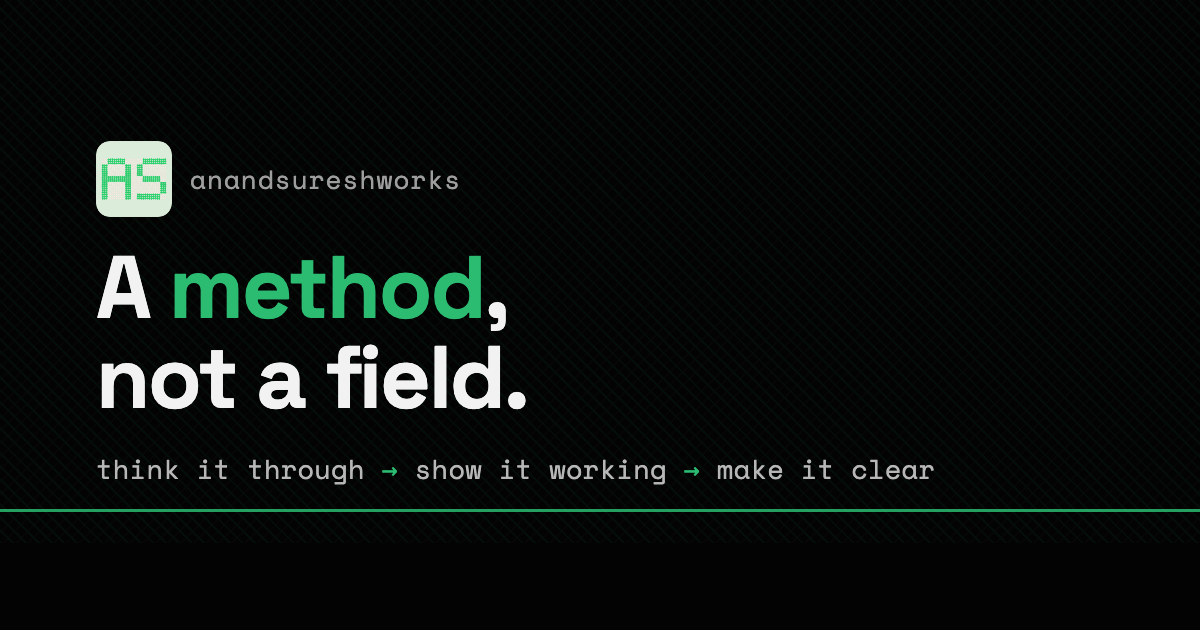
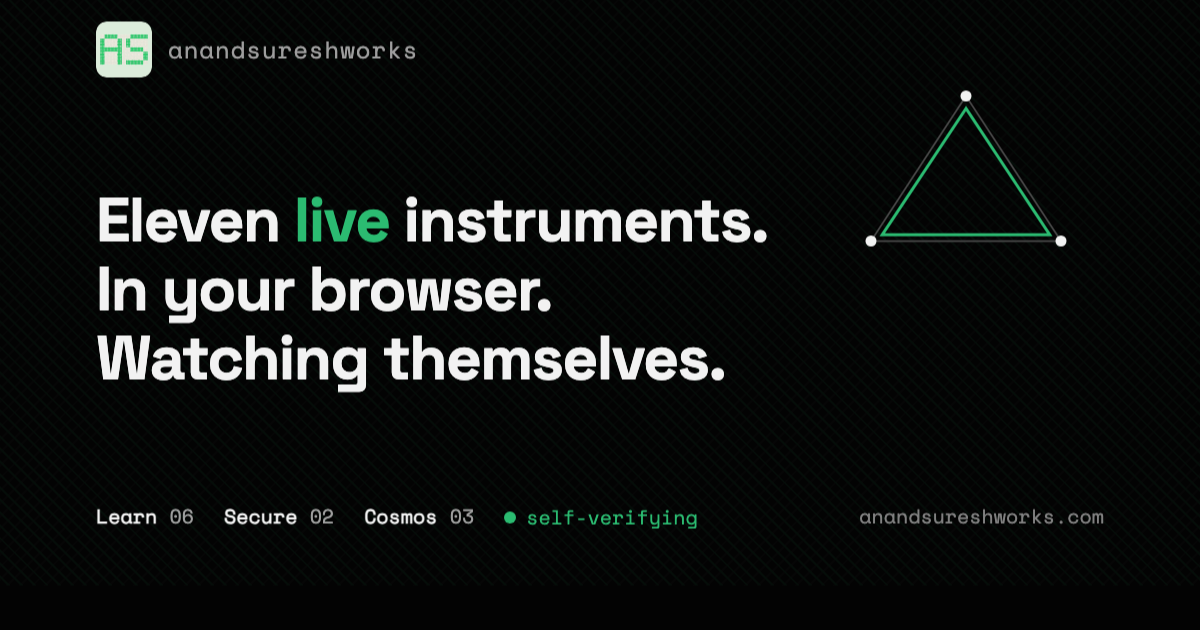
feat(home): rev 4 — wings as chapters + claim-first og card
Why: the three wings were filed, not displayed — tabs hid two of three behind
a click, no wing existed above the fold, and eleven equal cards gave no wing a
signature moment. On LinkedIn the feed card does the selling before the click,
and ours led with the wordmark instead of the claim.

- tabs -> full-width chapters, deep-linkable (#learn/#secure/#cosmos); tab
  select/keyboard JS retired — no hidden content, no state
- each chapter led by its signature instrument at double width: Ebbinghaus,
  Redactor, Your Sky (Cosmos reordered — sky leads, Einstein second)
- wings doors strip in the fold: all three rooms visible before the scroll,
  live micro-signals per wing
- og-card: claim-first ('Eleven live instruments. In your browser. Watching
  themselves.') + wing counts; og/meta descriptions rewritten to match
- gen_og_card.sh: Chrome headless=new reserves ~85px of canvas below the
  viewport; render 715 + top-crop 630 (sips --cropOffset must FOLLOW -c or it
  silently center-crops). Caught by eyeballing the PNG — geometry never errors.

Count contract: 'eleven' appears in og-card + og:description + meta description;
update all three when wings grow (noted at SHELVES).

diff --git a/index.html b/index.html
@@ -4,10 +4,10 @@
 <meta charset="utf-8" />
 <meta name="viewport" content="width=device-width, initial-scale=1" />
 <title>Anand Suresh — a method, not a field</title>
-<meta name="description" content="A method, not a field — first-principles rigor, demonstrated in the open, demystified for any reader. Live, in-browser instruments across AI, security, learning, and the cosmos. By Anand Suresh." />
+<meta name="description" content="A method, not a field — eleven live instruments across AI, security, learning, and the cosmos, running in your browser and verifying their own freshness. By Anand Suresh." />
 <meta name="robots" content="index, follow" />
 <meta property="og:title" content="Anand Suresh — a method, not a field" />
-<meta property="og:description" content="Think it through. Show it working. Make it clear. Live, in-browser instruments across AI, security, learning, and the cosmos." />
+<meta property="og:description" content="Eleven live instruments across AI, security, learning & the cosmos — running in your browser, verifying their own freshness. Nothing installed, nothing sent anywhere." />
 <meta property="og:image" content="https://www.anandsureshworks.com/og-card.png" />
 <meta property="og:type" content="website" />
 <meta property="og:url" content="https://www.anandsureshworks.com/" />
@@ -20,13 +20,36 @@
   h1{font-size:1.5rem;font-weight:600;margin:.4rem 0 .3rem;letter-spacing:-.01em}
   .sub{color:var(--t2);font-size:.9rem;margin:0 0 2.2rem}
   section{margin-bottom:2.6rem}
-  .tabs{display:flex;gap:1.4rem;border-bottom:1px solid var(--bd-sub);margin:0 0 1.6rem}
-  .tabs button{background:none;border:none;border-bottom:2px solid transparent;color:var(--t3);font-family:var(--sans);font-size:.95rem;font-weight:600;padding:.45rem 0 .6rem;margin-bottom:-1px;cursor:pointer;display:flex;align-items:center;gap:.4rem}
-  .tabs button[aria-selected=true]{color:var(--t1);border-bottom-color:var(--accent)}
-  .tabs button:hover{color:var(--t2)}
-  .tabs .tcount{font-family:var(--mono);font-size:.66rem;color:var(--t3);font-weight:400}
-  .panel-head{display:flex;align-items:baseline;gap:.75rem;margin-bottom:1.1rem}
-  .panel-head .thesis{font-size:.84rem;color:var(--t2)}
+  /* rev 4 — wings as chapters, not tabs: every wing visible, each led by its signature instrument.
+     The doors strip puts all three wings in the fold; chapters are deep-linkable (#learn/#secure/#cosmos). */
+  .wings{display:grid;grid-template-columns:repeat(3,1fr);gap:1rem;margin:2.4rem 0 0}
+  @media(max-width:760px){.wings{grid-template-columns:1fr}}
+  .wing{display:flex;flex-direction:column;gap:.45rem;padding:1rem 1.1rem 1.05rem;background:var(--s1);border:1px solid var(--bd-sub);border-radius:11px;text-decoration:none;transition:border-color .15s ease,transform .15s ease}
+  .wing:hover{border-color:var(--accent);transform:translateY(-2px)}
+  .wing:focus-visible{outline:2px solid var(--accent);outline-offset:2px}
+  .wing .eyeb{font-family:var(--mono);font-size:.58rem;letter-spacing:.1em;text-transform:uppercase;color:var(--t3)}
+  .wing h3{font-size:1.33rem;font-weight:600;margin:0;letter-spacing:-.012em;color:var(--t1)}
+  .wing .wth{font-size:.78rem;color:var(--t2);min-height:2.3em}
+  .wing .micro{height:44px;display:flex;align-items:center;overflow:hidden}
+  .wing .wct{display:flex;justify-content:space-between;align-items:baseline;font-family:var(--mono);font-size:.66rem;color:var(--t3)}
+  .wing .wct .go{color:var(--accent);font-weight:700}
+  .microchips{display:flex;gap:5px;flex-wrap:wrap}
+  .microchips span{font-family:var(--mono);font-size:.56rem;color:var(--d2);border:1px solid color-mix(in oklch,var(--d2) 42%,transparent);border-radius:3px;padding:1px 5px}
+  .mstk{position:relative;width:100%;height:44px;border-radius:6px;overflow:hidden;background:radial-gradient(circle at 50% -60%, color-mix(in oklch,var(--d5) 20%,transparent), transparent 75%)}
+  .mstk i{position:absolute;width:1.5px;height:8px;border-radius:1px;background:linear-gradient(to bottom,transparent,var(--d5));animation:mfall 2.4s linear infinite;opacity:0}
+  @keyframes mfall{0%{transform:translateY(-10px);opacity:0}8%{opacity:1}88%{opacity:.5}100%{transform:translateY(52px);opacity:0}}
+  @media (prefers-reduced-motion:reduce){.mstk i{animation:none;opacity:.35;transform:translateY(14px)}}
+  .chapter{margin-top:3rem;scroll-margin-top:1rem}
+  .chhead{display:flex;align-items:baseline;gap:1rem;flex-wrap:wrap;border-bottom:1px solid var(--bd-sub);padding-bottom:.6rem;margin-bottom:1.2rem}
+  .chhead .eyeb{font-family:var(--mono);font-size:.6rem;letter-spacing:.1em;text-transform:uppercase;color:var(--t3)}
+  .chhead h2{font-size:1.78rem;font-weight:600;margin:0;letter-spacing:-.018em;line-height:1.05}
+  .chhead .thesis{font-size:.84rem;color:var(--t2)}
+  .chhead .count{margin-left:auto;font-family:var(--mono);font-size:.66rem;color:var(--t3)}
+  main .cards{grid-template-columns:repeat(auto-fill,minmax(18.5rem,1fr))} /* 3-up on desktop so a lead can span 2 (page-local; brand.css default untouched) */
+  .card.lead{grid-column:span 2}
+  @media(max-width:760px){.card.lead{grid-column:span 1}}
+  .lead .q{font-size:1.33rem}
+  .lead .c-signal{height:200px}
 
   /* deep-decay */
   .ring-col{display:flex;flex-direction:column;align-items:center;gap:4px;flex:none}
@@ -294,8 +317,8 @@
     <a class="cta2" href="/notes/feed.xml">rss &#8599;</a>
   </div>
 
-  <nav class="tabs" id="tabs" role="tablist" aria-label="categories"></nav>
-  <div id="panels"></div>
+  <div class="wings" id="wings" aria-label="the three wings"></div>
+  <div id="chapters"></div>
 
   <div class="prodrow">
     <span class="pname">agentliveness</span><span class="lic">MIT</span>
@@ -330,8 +353,8 @@
   const dcol=v=> v>=.8?"var(--d5)": v>=.6?"var(--d4)": v>=.4?"var(--d3)": v>=.2?"var(--d2)":"var(--d1)";
   const RAMPKEY=`<div class="ramp-key" aria-label="data scale from fresh to decayed"><span>fresh</span><i style="background:var(--d5)"></i><i style="background:var(--d4)"></i><i style="background:var(--d3)"></i><i style="background:var(--d2)"></i><i style="background:var(--d1)"></i><span>decayed</span></div>`;
 
-  function card({eyebrow,q,concept,statN,statLbl,date,signal,sigAria,foot}){
-    return `<article class="card">
+  function card({eyebrow,q,concept,statN,statLbl,date,signal,sigAria,foot,lead}){
+    return `<article class="card${lead?" lead":""}">
       <div class="c-head"><div class="eyebrow">${eyebrow}</div><p class="q">${q}</p><p class="concept">${concept}</p></div>
       <div class="c-signal" role="img" aria-label="${sigAria}" style="position:relative">${signal}</div>
       <div class="c-stat"><span class="n">${statN}</span><span class="lbl">${statLbl}</span><span class="date">${date}</span></div>
@@ -340,16 +363,19 @@
   }
   const SHELVES=[];
   function shelf(id,o){ SHELVES.push({id,...o}); }
-  function renderTabs(){
-    const tabs=document.getElementById("tabs"), panels=document.getElementById("panels");
-    tabs.innerHTML=SHELVES.map((s,i)=>`<button role="tab" id="tab-${s.id}" data-tab="${s.id}" aria-controls="panel-${s.id}" aria-selected="${i===0}" tabindex="${i===0?0:-1}">${s.title}<span class="tcount">${(s.cards.match(/<article/g)||[]).length}</span></button>`).join("");
-    panels.innerHTML=SHELVES.map((s,i)=>`<section class="tpanel" id="panel-${s.id}" role="tabpanel" aria-labelledby="tab-${s.id}"${i?" hidden":""}><div class="panel-head"><span class="thesis">${s.thesis}</span>${s.key?RAMPKEY:""}</div><div class="cards">${s.cards}</div></section>`).join("");
-    tabs.addEventListener("click",e=>{const b=e.target.closest("button[role=tab]");if(b)select(b.dataset.tab);});
-    tabs.addEventListener("keydown",e=>{if(e.key!=="ArrowRight"&&e.key!=="ArrowLeft")return;e.preventDefault();const bs=[...tabs.querySelectorAll("button")],i=bs.findIndex(b=>b.getAttribute("aria-selected")==="true"),n=(i+(e.key==="ArrowRight"?1:bs.length-1))%bs.length;select(bs[n].dataset.tab);bs[n].focus();});
-  }
-  function select(id){
-    document.querySelectorAll("#tabs button").forEach(b=>{const on=b.dataset.tab===id;b.setAttribute("aria-selected",String(on));b.tabIndex=on?0:-1;});
-    document.querySelectorAll(".tpanel").forEach(p=>p.hidden=(p.id!=="panel-"+id));
+  // rev 4: wings render as chapters (all visible, deep-linkable) behind a doors strip in the fold.
+  // NOTE: the og:description + og-card state the total instrument count — update both when adding cards.
+  const WING_MICRO={
+    learn:`<span class="mstk" aria-hidden="true"><i style="left:12%;animation-delay:0s"></i><i style="left:34%;animation-delay:.7s"></i><i style="left:58%;animation-delay:.3s"></i><i style="left:81%;animation-delay:1.2s"></i></span>`,
+    secure:`<span class="microchips" aria-hidden="true"><span>DENY-DEFAULT</span><span>9 PII TYPES</span><span>0 PLAINTEXT</span></span>`,
+    cosmos:`<svg viewBox="0 0 220 44" width="100%" aria-hidden="true"><circle cx="18" cy="24" r="1.4" fill="var(--t1)"/><circle cx="47" cy="12" r="1" fill="var(--t2)"/><circle cx="78" cy="30" r="1.7" fill="var(--t1)"/><circle cx="107" cy="9" r="1" fill="var(--t2)"/><circle cx="132" cy="22" r="1.3" fill="var(--t1)"/><circle cx="164" cy="33" r="1" fill="var(--t2)"/><circle cx="187" cy="14" r="2.1" fill="var(--d5)"/><circle cx="205" cy="27" r="1.2" fill="var(--t1)"/></svg>`};
+  const wingNoun=s=>s.id==="secure"?"tools":"instruments";
+  function renderChapters(){
+    const wings=document.getElementById("wings"), chapters=document.getElementById("chapters");
+    wings.innerHTML=SHELVES.map((s,i)=>{const n=(s.cards.match(/<article/g)||[]).length;
+      return `<a class="wing" href="#${s.id}"><span class="eyeb">wing 0${i+1}</span><h3>${s.title}</h3><span class="wth">${s.thesis}</span><span class="micro">${WING_MICRO[s.id]||""}</span><span class="wct"><span>${n} ${wingNoun(s)} · live</span><span class="go" aria-hidden="true">enter &darr;</span></span></a>`;}).join("");
+    chapters.innerHTML=SHELVES.map((s,i)=>{const n=(s.cards.match(/<article/g)||[]).length;
+      return `<section class="chapter" id="${s.id}" aria-labelledby="ch-${s.id}"><div class="chhead"><span class="eyeb">wing 0${i+1}</span><h2 id="ch-${s.id}">${s.title}</h2><span class="thesis">${s.thesis}</span>${s.key?RAMPKEY:""}<span class="count">${n} ${wingNoun(s)}</span></div><div class="cards">${s.cards}</div></section>`;}).join("");
   }
   const ghUrl=r=>`https://github.com/anandsureshworks/${r}`;
 
@@ -372,7 +398,7 @@
     return `<svg viewBox="0 0 ${W} ${H}" width="100%">${grid}${thr}${curveP}${hint}${dots}${xt}</svg>`;
   }
   function ebCard(){
-    return `<article class="card">
+    return `<article class="card lead">
       <div class="c-head"><div class="eyebrow">Memory · spaced repetition</div>
         <p class="q">What are you about to forget?</p>
         <p class="concept">Add a topic and watch it slide down its forgetting curve. <span class='mono' style='color:var(--t3)'>R = e⁻ᵗ/ˢ</span></p></div>
@@ -449,7 +475,7 @@
   ].join("")});
 
   shelf("secure",{title:"Secure", thesis:"First principles, turned on trust.", key:false, cards:[
-    card({eyebrow:"Security · PII", q:"What's leaking in this prompt?",
+    card({lead:true, eyebrow:"Security · PII", q:"What's leaking in this prompt?",
       concept:"Rules + an in-browser NER model scrub names, secrets & PII before they reach an LLM. Nothing leaves your tab.",
       statN:"9", statLbl:"PII types caught · live", date:"2026-06-23",
       signal:`<div class="chips">${["PERSON","EMAIL","SSN","CARD","API_KEY","IP","JWT","ORG","PHONE"].map(t=>`<span class="chip">${t}</span>`).join("")}</div>`,
@@ -462,22 +488,22 @@
   ].join("")});
 
   shelf("cosmos",{title:"Cosmos", thesis:"First principles, turned on the universe.", key:false, cards:[
+    card({lead:true, eyebrow:"Cosmos · your sky", q:"What's above you right now?",
+      concept:"Your real sky — Sun, Moon phase, the bright stars over your horizon — from where you are, this second.",
+      statN:"live", statLbl:"from your location", date:"",
+      signal:skyGlance, sigAria:"A map of bright stars in the night sky", foot:{note:"interactive",href:"./sky/",text:"open ↗"}}),
     card({eyebrow:"Cosmos · Einstein's gotchas", q:"It sounded absurd. It was measured anyway.",
       concept:"Six predictions ridiculed, then confirmed — a century of experiments built to <b>break</b> relativity has only made it sturdier.",
       statN:"6", statLbl:"predictions · 0 broken", date:"1919 – 2019",
       signal:`<div class="chips">${["MUONS","1971 CLOCKS","1919 ECLIPSE","GPS","LIGO 2015","E=mc²","EHT 2019"].map(t=>`<span class="chip">${t}</span>`).join("")}</div>`,
       sigAria:"Six confirmed predictions of relativity, from the 1919 eclipse to the 2019 black-hole photograph", foot:{note:"interactive",href:"./spacetime/#einstein",text:"open ↗"}}),
-    card({eyebrow:"Cosmos · your sky", q:"What's above you right now?",
-      concept:"Your real sky — Sun, Moon phase, the bright stars over your horizon — from where you are, this second.",
-      statN:"live", statLbl:"from your location", date:"",
-      signal:skyGlance, sigAria:"A map of bright stars in the night sky", foot:{note:"interactive",href:"./sky/",text:"open ↗"}}),
     card({eyebrow:"Cosmos · spacetime", q:"How big is it — really?",
       concept:"Looking out is looking back in time; mass bends spacetime; we are a speck.",
       statN:"4", statLbl:"sketches · a cosmology tutor", date:"",
       signal:stGlance, sigAria:"Concentric ripples in spacetime", foot:{note:"interactive",href:"./spacetime/",text:"open ↗"}}),
   ].join("")});
 
-  renderTabs();
+  renderChapters();
 
   // wire interactive ebbinghaus (the one card that reacts to the visitor)
   (()=>{

diff --git a/scripts/og-card.html b/scripts/og-card.html
@@ -1,6 +1,9 @@
 <!doctype html>
 <!-- og-card source — rendered to /og-card.png (1200x630) via headless Chrome:
-     scripts/gen_og_card.sh . Committed source so the card is reproducible. -->
+     scripts/gen_og_card.sh . Committed source so the card is reproducible.
+     rev 4 (2026-08-06): claim-first — the feed card leads with the proof only this
+     site can offer (live, self-verifying instruments), not the wordmark. The
+     instrument count is stated here AND in og:description — update both when wings grow. -->
 <html lang="en">
 <head>
 <meta charset="utf-8" />
@@ -9,29 +12,36 @@
   @font-face{font-family:'Space Mono';font-weight:400;src:url("../fonts/space-mono-latin-400.woff2") format("woff2")}
   *{margin:0;box-sizing:border-box}
   body{width:1200px;height:630px;background:oklch(10% 0 0);color:oklch(96% 0 0);
-    font-family:'Space Grotesk',sans-serif;display:flex;align-items:center;overflow:hidden;position:relative}
+    font-family:'Space Grotesk',sans-serif;overflow:hidden;position:relative;
+    display:flex;flex-direction:column;justify-content:space-between;padding:64px 96px 56px}
   .weave{position:absolute;inset:0;opacity:.05;
     background:repeating-linear-gradient(45deg,transparent 0 7px,oklch(70% .16 155) 7px 9px),
                repeating-linear-gradient(-45deg,transparent 0 7px,oklch(40% 0 0) 7px 9px)}
-  .thread{position:absolute;left:0;right:0;bottom:118px;height:3px;background:oklch(70% .16 155);opacity:.85}
-  .wrap{position:relative;padding:0 96px;display:flex;flex-direction:column;gap:26px}
-  .mk{display:flex;align-items:center;gap:18px}
-  .mk img{width:76px;height:76px;border-radius:14px}
-  .mk span{font-family:'Space Mono',monospace;font-size:26px;color:oklch(70% 0 0);letter-spacing:.04em}
-  h1{font-size:88px;font-weight:700;letter-spacing:-.025em;line-height:1.02}
-  h1 b{color:oklch(70% .16 155)}
-  .moves{font-family:'Space Mono',monospace;font-size:27px;color:oklch(78% 0 0);letter-spacing:.01em}
-  .moves i{font-style:normal;color:oklch(70% .16 155)}
-  .url{position:absolute;right:96px;bottom:44px;font-family:'Space Mono',monospace;font-size:24px;color:oklch(60% 0 0)}
+  .tri{position:absolute;right:84px;top:96px;width:300px}
+  .mk{position:relative;display:flex;align-items:center;gap:16px}
+  .mk img{width:56px;height:56px;border-radius:11px}
+  .mk span{font-family:'Space Mono',monospace;font-size:24px;color:oklch(70% 0 0);letter-spacing:.04em}
+  h1{position:relative;font-size:62px;font-weight:700;letter-spacing:-.025em;line-height:1.12;max-width:820px}
+  h1 b{color:oklch(70% .16 155);font-weight:700}
+  .wrow{position:relative;display:flex;align-items:baseline;gap:30px;font-family:'Space Mono',monospace;font-size:20px;color:oklch(70% 0 0)}
+  .wrow span{white-space:nowrap}
+  .wrow b{color:oklch(96% 0 0);font-weight:700}
+  .live{display:inline-flex;align-items:center;gap:10px;color:oklch(70% .16 155)}
+  .live i{width:12px;height:12px;border-radius:50%;background:oklch(70% .16 155);flex:none}
+  .url{margin-left:auto;color:oklch(60% 0 0);font-size:20px}
 </style>
 </head>
 <body>
-  <div class="weave"></div><div class="thread"></div>
-  <div class="wrap">
-    <div class="mk"><img src="../as-logo.svg" alt="" /><span>anandsureshworks</span></div>
-    <h1>A <b>method</b>,<br/>not a field.</h1>
-    <div class="moves">think it through <i>&rarr;</i> show it working <i>&rarr;</i> make it clear</div>
-  </div>
-  <div class="url">anandsureshworks.com</div>
+  <div class="weave"></div>
+  <svg class="tri" viewBox="0 0 240 184" aria-hidden="true">
+    <polygon points="120,34 44,150 196,150" fill="none" stroke="oklch(40% 0 0)" stroke-width="1.4"/>
+    <polygon points="120,44 53,145 187,145" fill="none" stroke="oklch(70% .16 155)" stroke-width="2.4"/>
+    <circle cx="120" cy="34" r="4.4" fill="oklch(96% 0 0)"/>
+    <circle cx="44" cy="150" r="4.4" fill="oklch(96% 0 0)"/>
+    <circle cx="196" cy="150" r="4.4" fill="oklch(96% 0 0)"/>
+  </svg>
+  <div class="mk"><img src="../as-logo.svg" alt="" /><span>anandsureshworks</span></div>
+  <h1>Eleven <b>live</b> instruments.<br/>In your browser.<br/>Watching themselves.</h1>
+  <div class="wrow"><span><b>Learn</b> 06</span><span><b>Secure</b> 02</span><span><b>Cosmos</b> 03</span><span class="live"><i></i>self-verifying</span><span class="url">anandsureshworks.com</span></div>
 </body>
 </html>

diff --git a/CHANGELOG.md b/CHANGELOG.md
@@ -7,6 +7,19 @@ Format follows [Keep a Changelog](https://keepachangelog.com/en/1.1.0/).
 ## [Unreleased]
 
 ### Added
+- **Wings as chapters (rev 4)** — the gallery stops filing its wings behind tabs:
+  Learn / Secure / Cosmos render as full-width, deep-linkable chapters
+  (#learn/#secure/#cosmos), each led by its signature instrument at double width
+  (Ebbinghaus · Redactor · Your Sky — Cosmos reordered so the sky leads). A
+  three-door wings strip with live micro-signals (muon streaks, posture chips,
+  stars) enters the fold so every wing exists before the first scroll. Tab JS
+  (select/keyboard) retired — all content visible, no state.
+- **Claim-first og-card** — the LinkedIn/social feed card now leads with the claim
+  only this site can make ("Eleven live instruments. In your browser. Watching
+  themselves.") + wing counts, replacing the wordmark-first card; og:description
+  and meta description rewritten to match. `gen_og_card.sh` hardened against
+  Chrome headless=new's viewport-vs-window offset (render 715, top-crop 630 —
+  sips center-crops unless --cropOffset follows -c).
 - **Homepage UX pass (rev 3)** — classical landing anatomy without breaking brand law:
   the credibility line ("systems engineer → AI practitioner building in the open") made
   human-visible instead of JSON-LD-only; the L2 thesis surfaced on the page for the first
